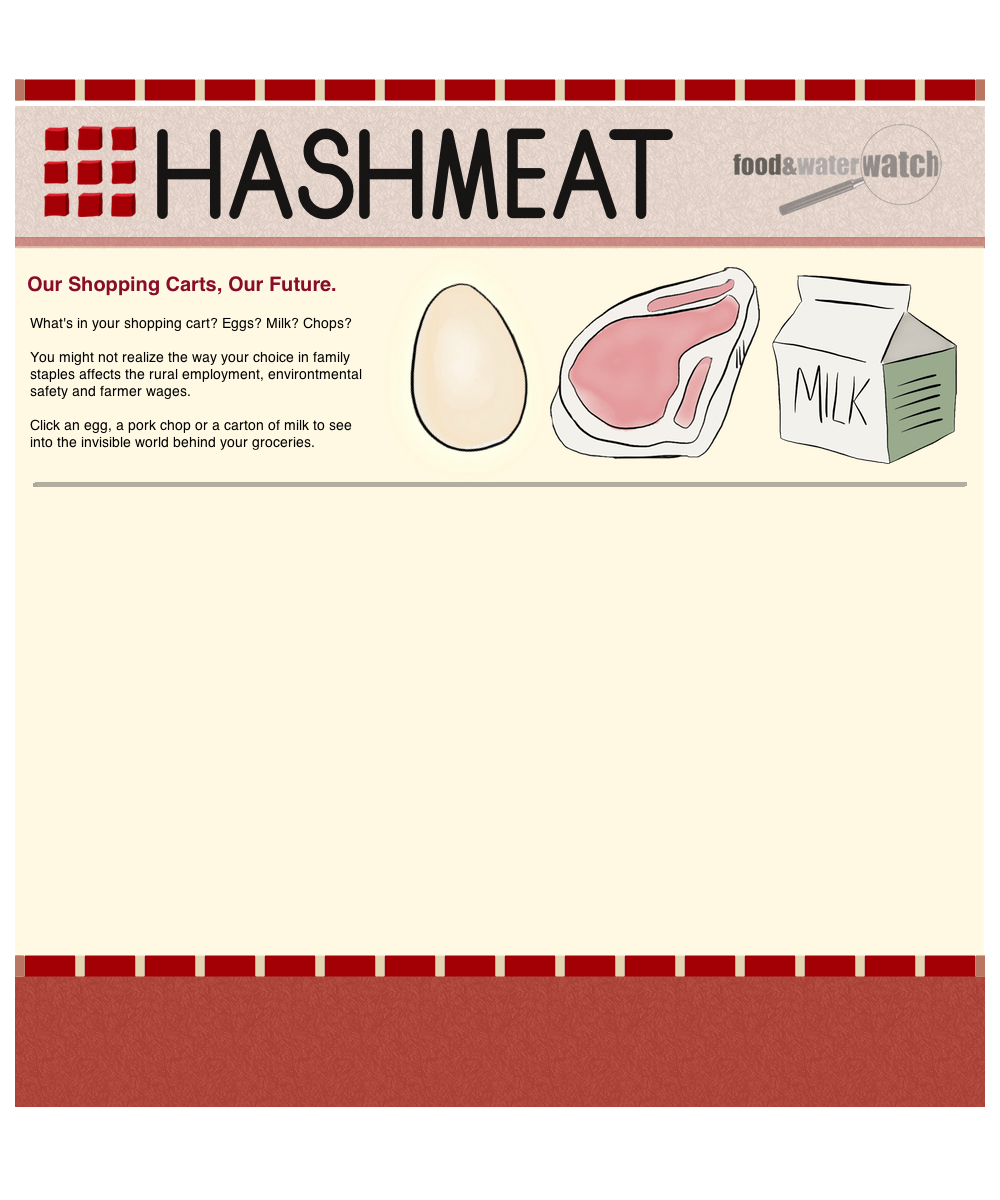
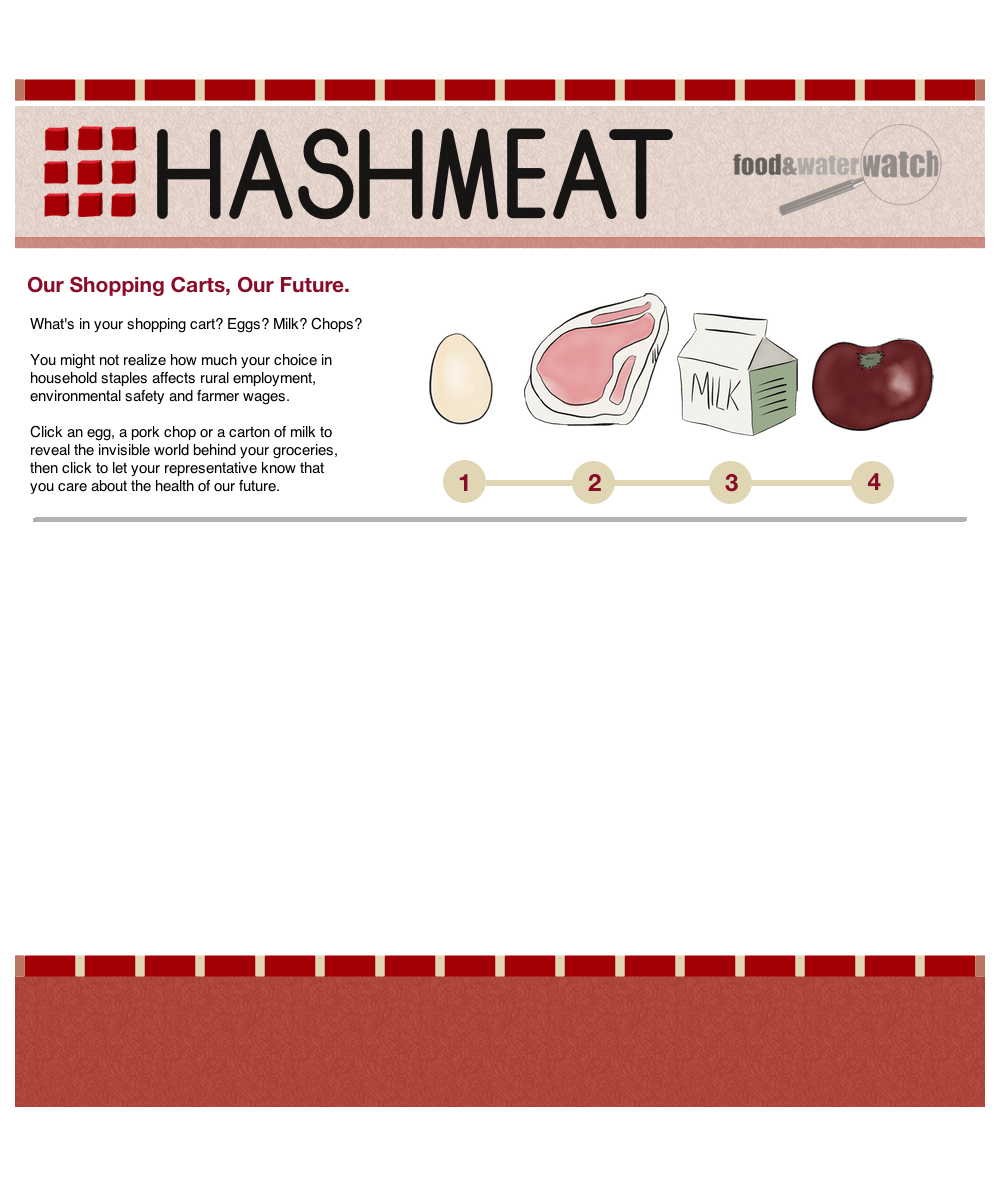
Still working on this, but we need to merge.

diff --git a/hashmeat/base.html b/hashmeat/base.html
@@ -9,27 +9,62 @@
     <script type="text/javascript" src="js/start.js"></script>
 
   </head>
+  <div id="container">
   <body>
-    <table id="navbar">
+    <div id="header">
+      <img src="img/header.png" alt="Food & Water Watch presents #HashMeat">
+      <div id="intro">
+      <h2>Our Shopping Carts, Our Future.</h2>
+      What's in your shopping cart? Eggs? Milk? Chops?</br></br>
+      You might not realize how much your choice in
+      household staples affects rural employement rates,
+      environmental safety and wages for farmers.</br></br>
+      Click an egg, a pork chop or a carton of milk to 
+      learn about the invisible world behind your groceries
+      and then keep clicking to let your representatives know
+      what actions they can take to <strong>fix what's wrong</strong>.
+      </div>
+      <table id="navbar">
       <tr>
-	<center>
-	<td id="navcenter">
-	  <a href="#slide1" class="nav" title="">
-	    1
-	  </a>
-	  <a href="#slide2" class="nav" title="">
-	    2
-	  </a>
-	  <a href="#slide3" class="nav" title="">
-	    3
-	  </a>
-	  <a href="#slide4" class="nav" title="">
-	    4
-	  </a>
-
-	</td></center>
+        <td id="navcenter">
+    <a href="#slide1" class="nav" title="">
+      <img src="img/icons_milk.png" alt="Milk">
+    </a>
+    <a href="#slide2" class="nav" title="">
+      <img src="img/icons_tomato.png" alt="Tomato">
+    </a>
+    <a href="#slide3" class="nav" title="">
+      <img src="img/icons_egg.png" alt="Egg">
+    </a>
+    <a href="#slide4" class="nav" title="">
+      <img src="img/icons_pork.png" alt="Pork">
+    </a>
+        </td>
       </tr>
+      <tr>
+        <td id="navcenter">
+    <a href="#slide1" class="nav" title="">
+      <img src="img/buttons_1.png" alt="Milk">
+    </a>
+    <a href="#slide2" class="nav" title="">
+      <img src="img/buttons_2.png" alt="Tomato">
+    </a>
+    <a href="#slide3" class="nav" title="">
+      <img src="img/buttons_3.png" alt="Egg">
+    </a>
+    <a href="#slide4" class="nav" title="">
+      <img src="img/buttons_4.png" alt="Pork">
+    </a>
+        </td>
+      </tr>
+      <tr>
+        <img src="img/divider_line.png" alt=" ">
+      </td>
+      
     </table>
+    </div>
+    */end of header section */
+
     <div class="slide" id="slide1">
       <!--<img src="img/test.jpeg" class="slideImage"/>-->
       test1
@@ -39,14 +74,21 @@
       <img src="img/test.jpeg" class="slideImage"/>
       test2
     </div>
+
     <div class="slide" id="slide3">
       test3
     </div>
+
     <div class="slide" id="slide4">
       test4
     </div>
-	<div id="fakeslide">
-	
-	</div>
+
+	 <div id="fakeslide">
+	 </div>
+
+   <div id="footer">
+   <img src="img/footer.png" alt=" ">
+   </div>
+ </div> */end of container*/
   </body>
 </html>

diff --git a/hashmeat/css/style.css b/hashmeat/css/style.css
@@ -1,33 +1,79 @@
-.slideImage {
-    height: 200px;
+/* Page Basics */
+
+body {
+    background: #FAF8F3;
+    font-family: "HelveticaNeue-Light", "Helvetica Neue Light", "Helvetica Neue", Helvetica, Arial, "Lucida Grande", sans-serif; 
+    color: #030303;
 }
+
+#container {
+    
+}
+
 
 #navbar {
+    position: fixed;
+    display: block;
+    top: 200px;
+    left: 375px;
+    z-index: ;
+    width: 600px;
+    height: 168px;
+}
+
+#header {
     width : 100%;
     position: fixed;
+    z-index: ;
     top: 0;
     left: 0;
-    z-index: 10;
-    /* background: #F3F0E9; */
-    
-
-}
-
-#navcenter {
-    margin: 0 auto;
+    display: block;
+    float: left;
+    margin: 0 auto 0 auto;
     width: 960px;
+    /* background: url(img/header.png) no-repeat -282px 0;*/
+
 }
-#navcenter a{
-    color: #CAC7C1;
+
+#intro {
+    width : 100%;
+    display: block;
+    float: left;
+    z-index: ;
+    top: 200px;
+    left: 20px;
+    display: block;
+    margin: 0 auto 0 auto;
+    width: 400px;
+    /* background: url(img/header.png) no-repeat -282px 0;*/
+
+}
+
+textarea {
+    color: #444;
+}
+
+a, a:visited, a:active {
+    text-decoration: none;
+}
+
+
+/* Navcenter and Slide Style */
+
+ #navcenter {
+    margin: 0 auto;
+    width: 600px;
+}
+ #navcenter a{
     display: block;
     float: left;
     position: relative;
-    width: 47px;
-    height: 22px;
+    width: 90px;
+    height: 100px;
+    color: #CAC7C1;
     background: url(img/test.jpeg) no-repeat -282px 0;
-/*    border-top: 4px solid #F3F0E9;*/
     padding: 18px 0px 12px 0px;
-    margin: 0 10px 0 10px;
+    margin: 10px 10px 10px 10px;
     text-align: center;
     font-size: 18px;
     line-height: 22px;
@@ -37,19 +83,13 @@
 #navcenter a.current {
     color: #615E5A;
     background-position: -329px 0;
-}
-a, a:visited, a:active {
-    text-decoration: none;
+} 
+
+
+.slideImage {
+    height: 200px;
 }
 
-body {
-    background: #FAF8F3;
-    font-family: "HelveticaNeue-Light", "Helvetica Neue Light", "Helvetica Neue", Helvetica, Arial, "Lucida Grande", sans-serif; 
-}
-
-textarea {
-    color: #444;
-}
 
 #slide1 {
 	margin: 100px 0 0 0;
@@ -80,5 +120,6 @@ textarea {
 #fakeslide {
 
 	height: 500px;
-
 }
+
+
